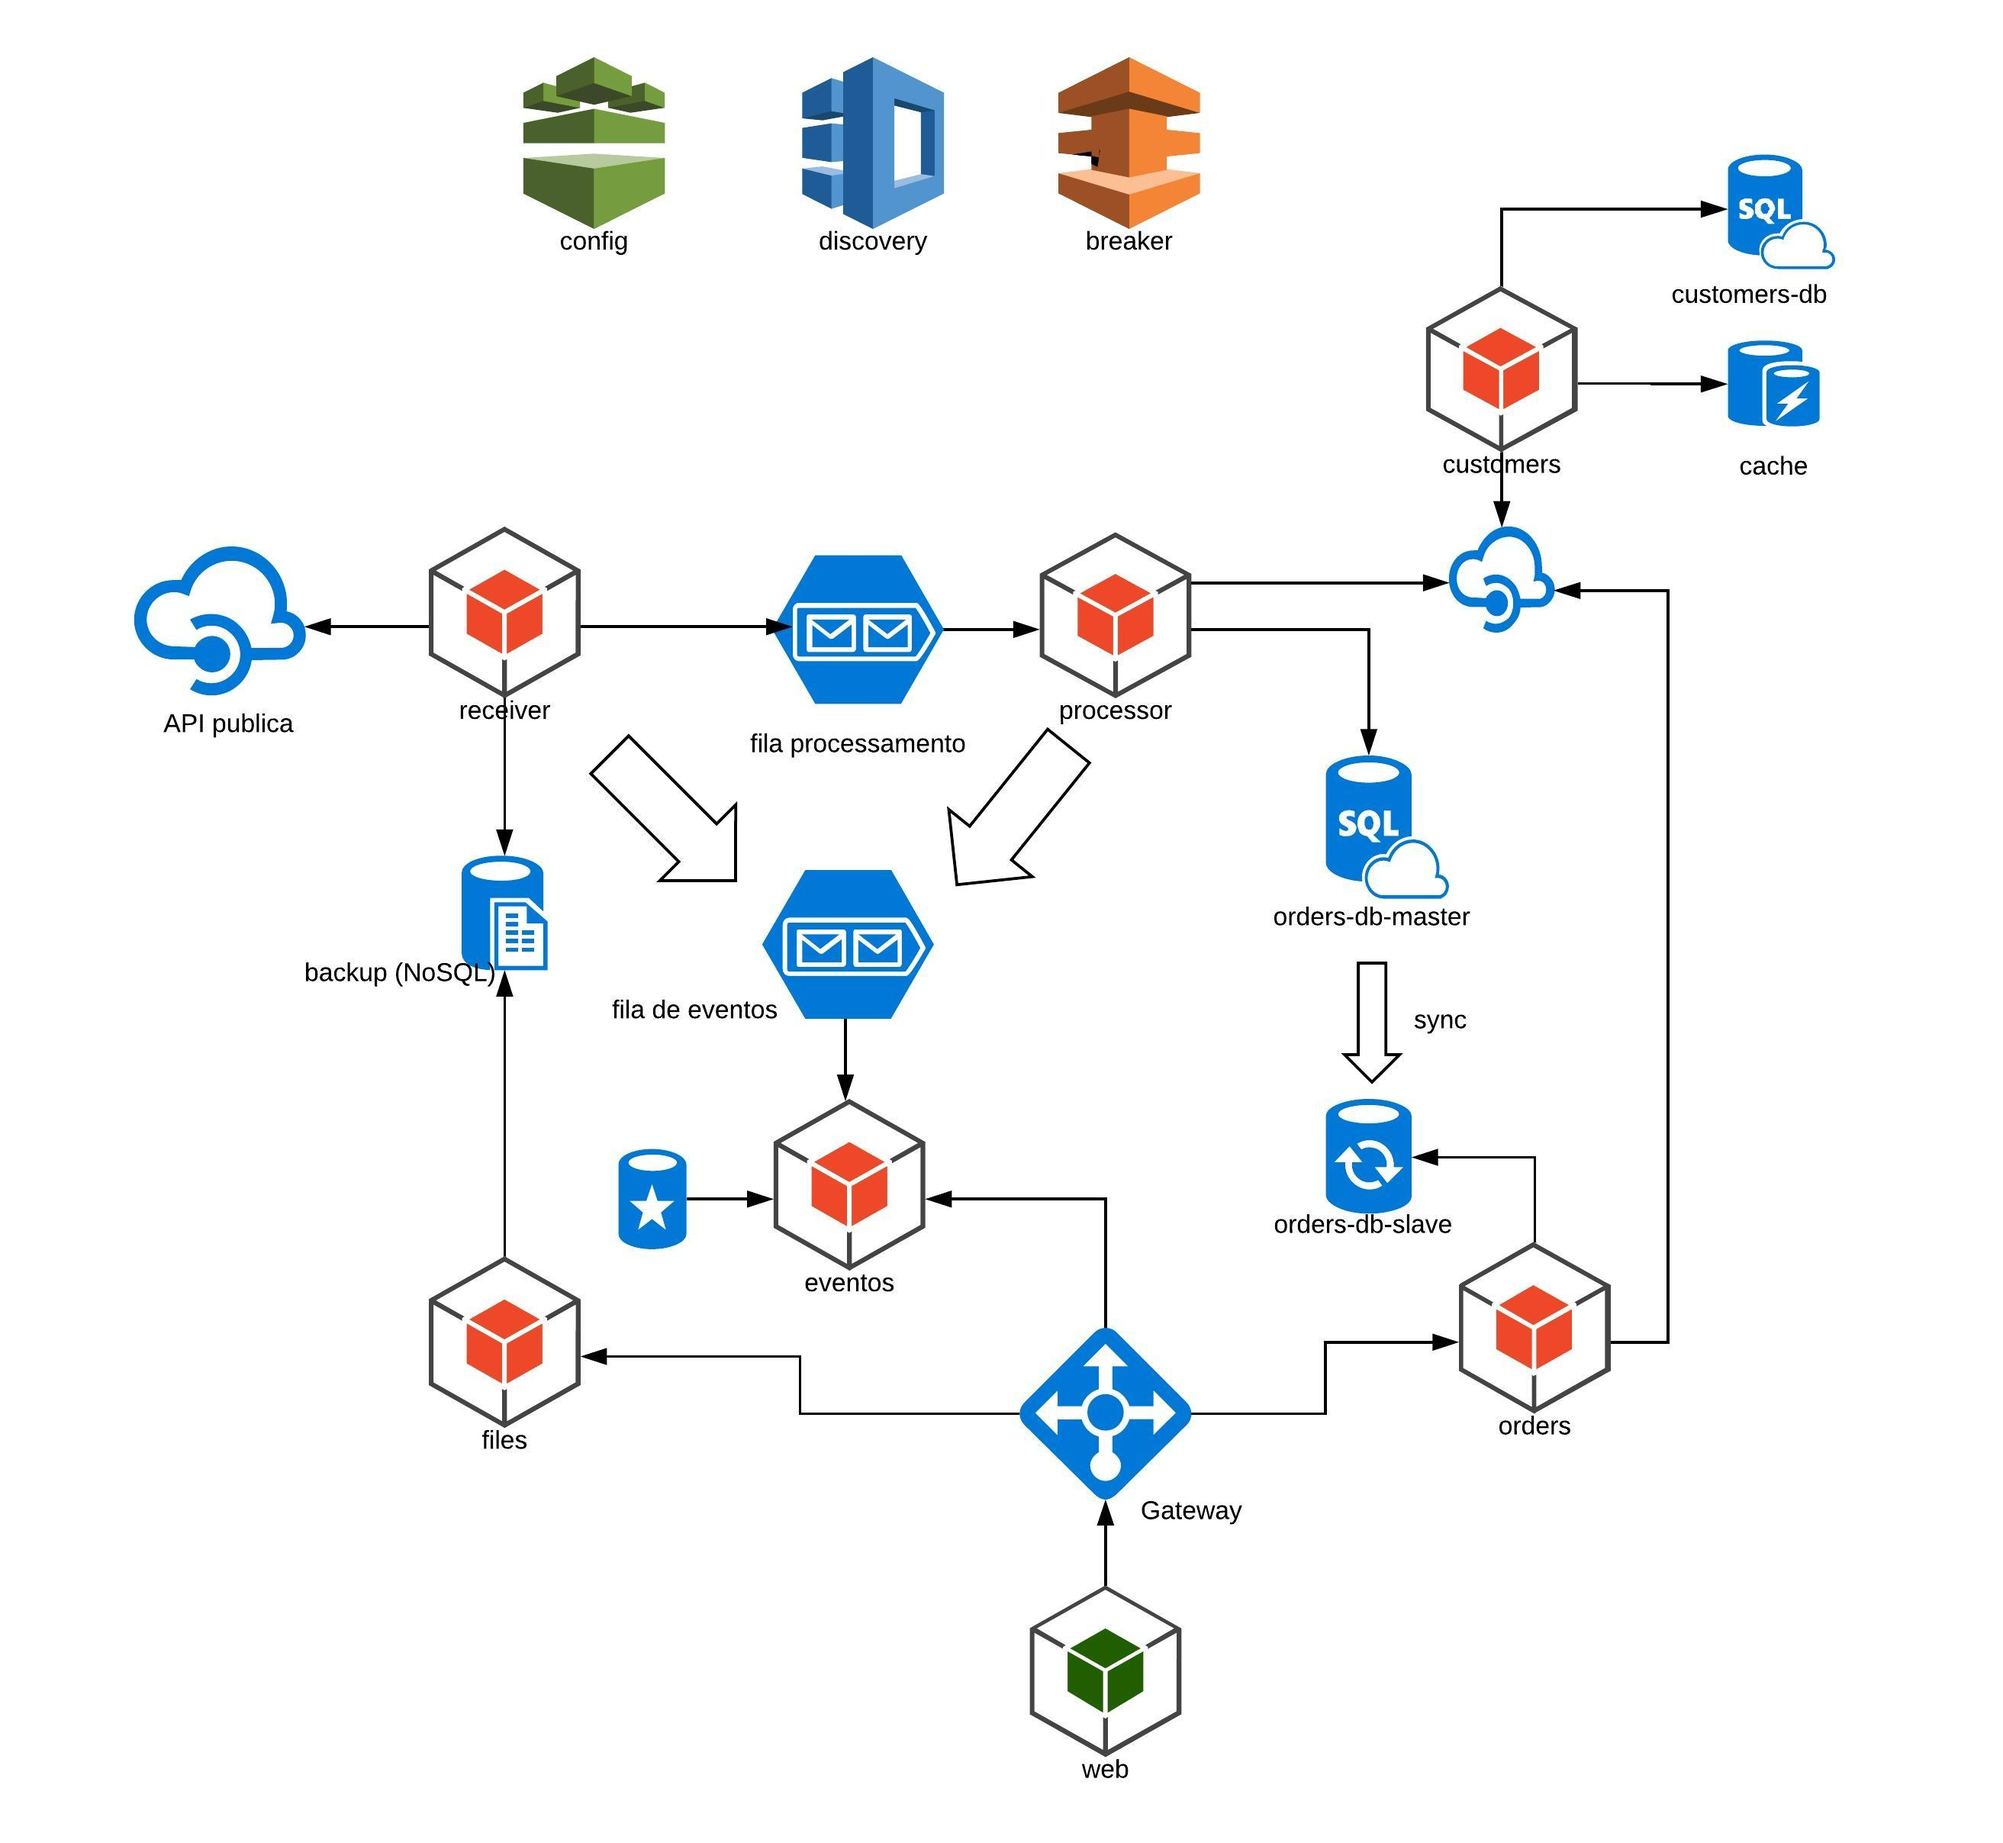
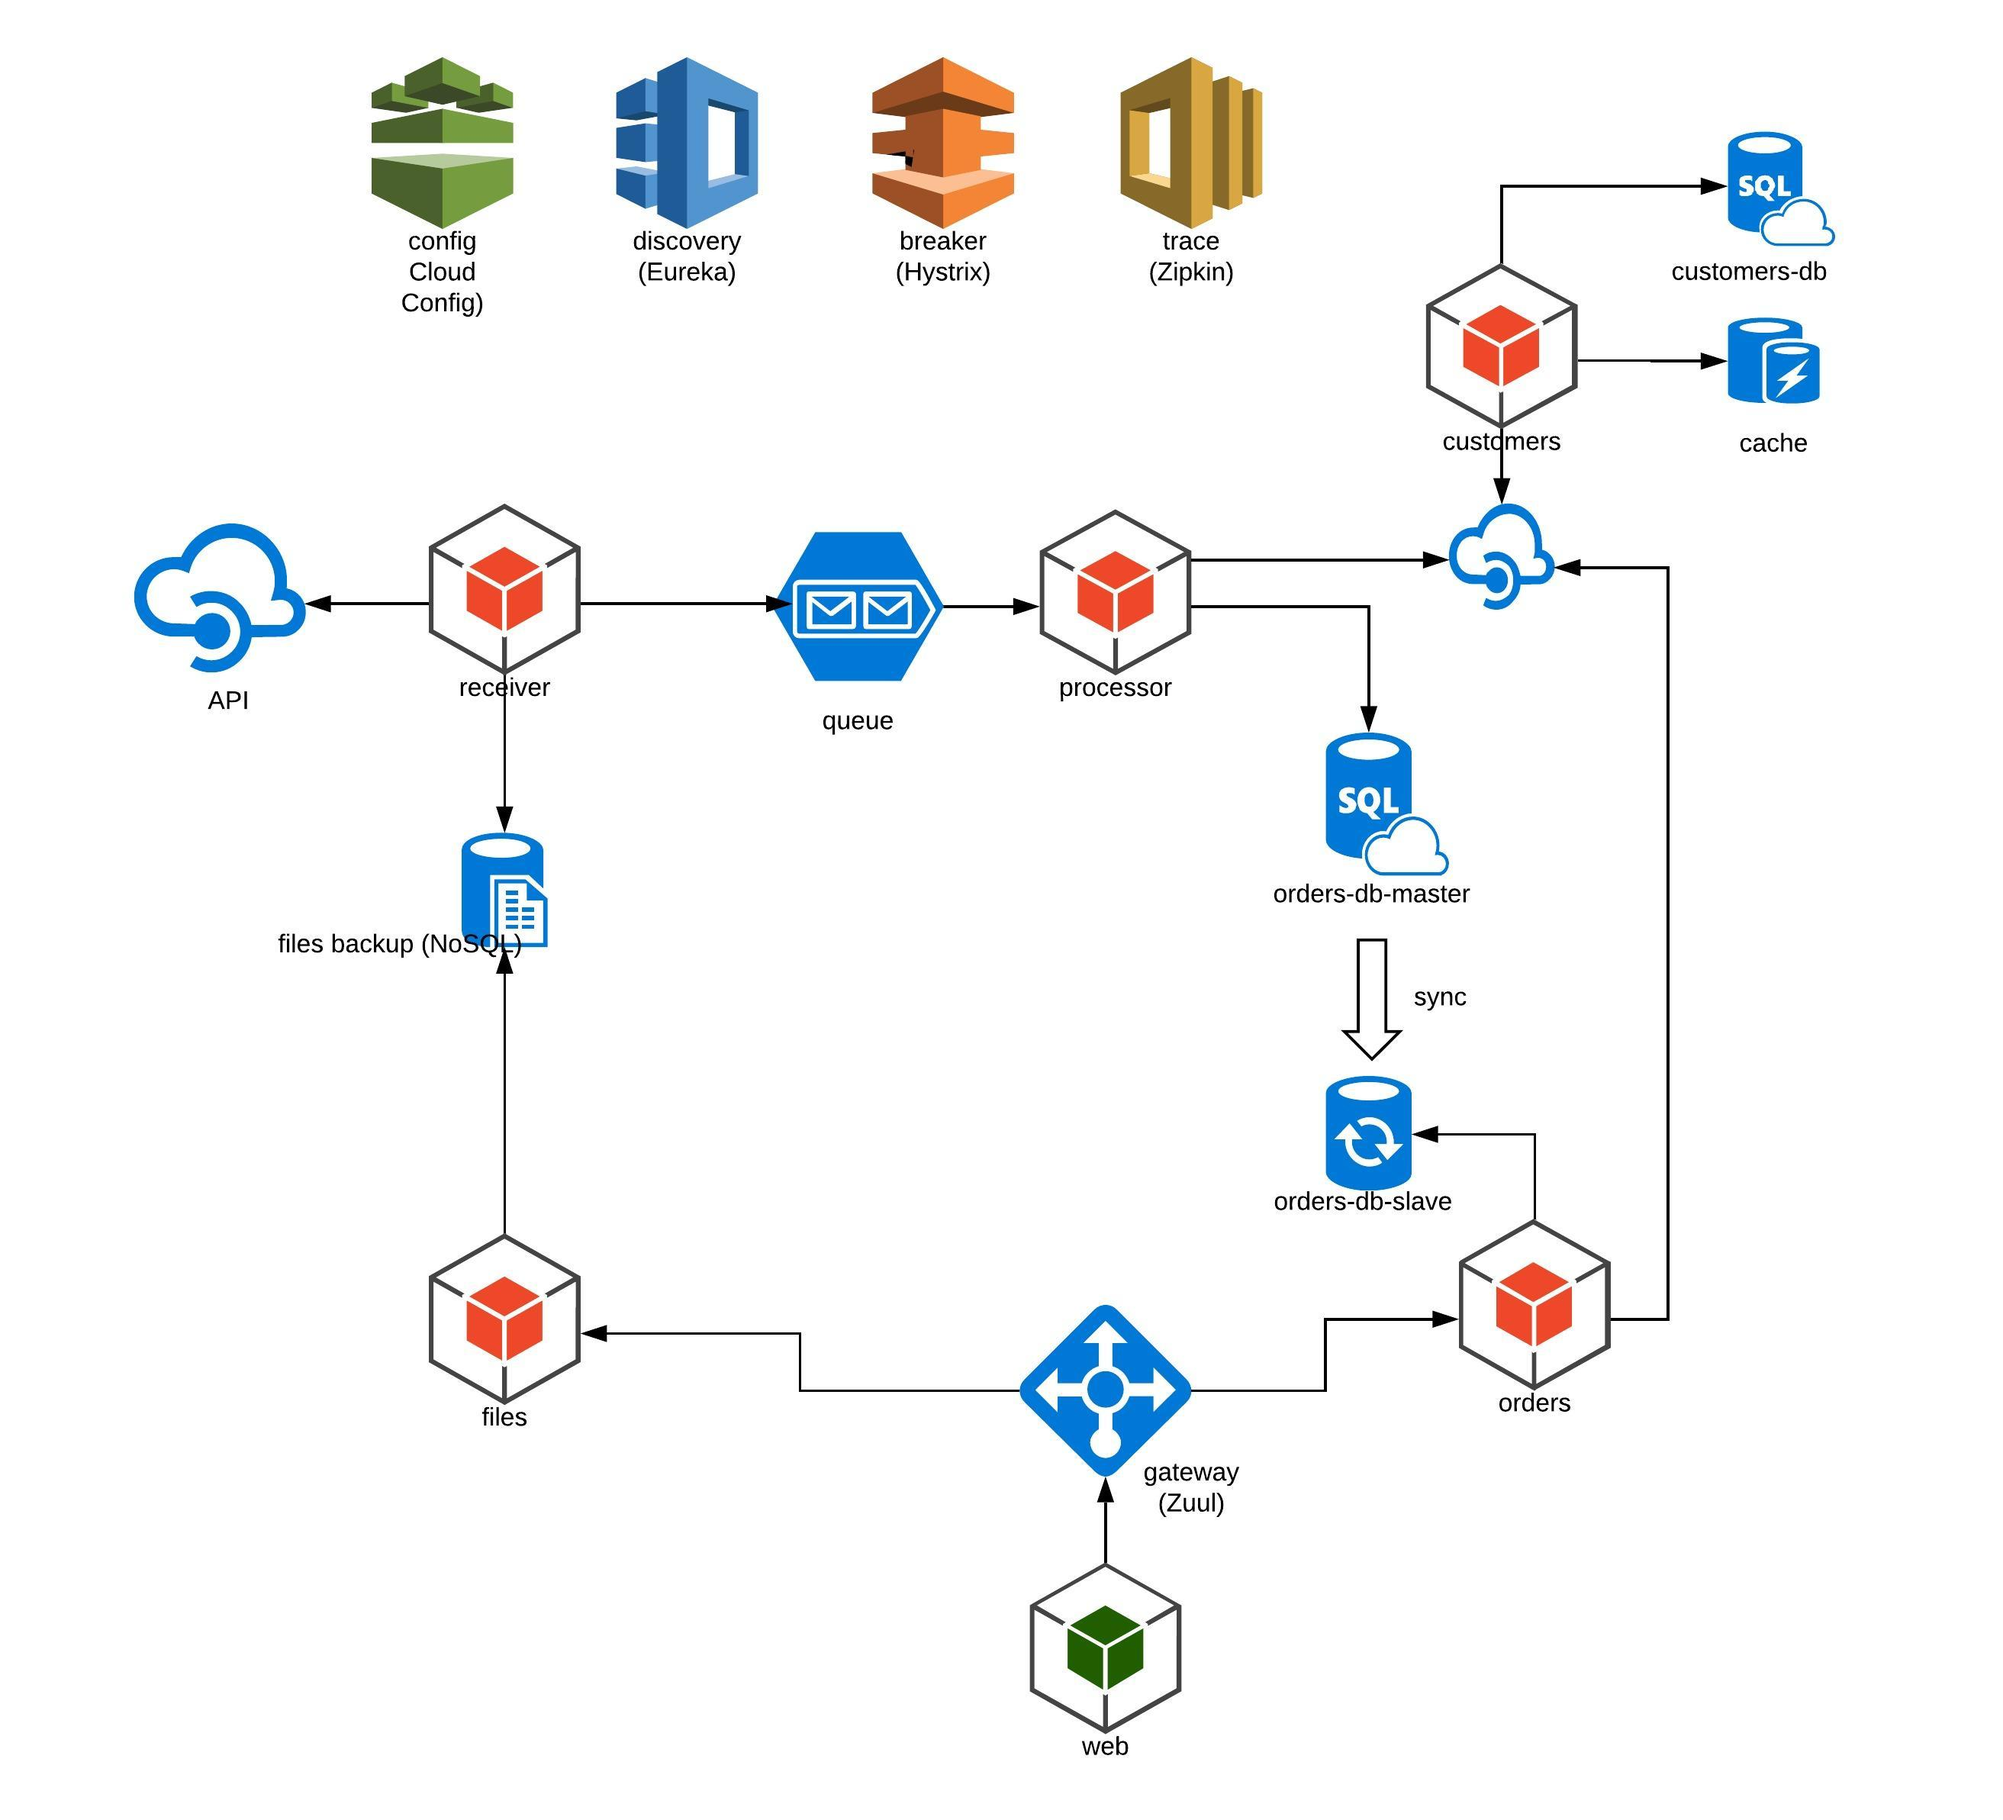
atualizando imagem

diff --git a/README.md b/README.md
@@ -1,10 +1,15 @@
-developing...
+##microservices-spring-cloud
 
-#### Docker Run
+
+![alt tag](https://github.com/emmanuelneri/microservices-spring-cloud/blob/master/architecture.jpeg)
+
+
+##Configurações:
+[Config](https://github.com/emmanuelneri/microservices-spring-cloud-config)
+
+#### Executando ambiente
 
 1. ```sh docker-build.sh```
 2. ```sh docker-infra-start.sh```
 2. ```sh docker-cloud-start.sh```
 3. ```sh docker-app-start.sh```
-
-![alt tag](https://github.com/emmanuelneri/microservices-spring-cloud/blob/master/architecture.jpeg)
